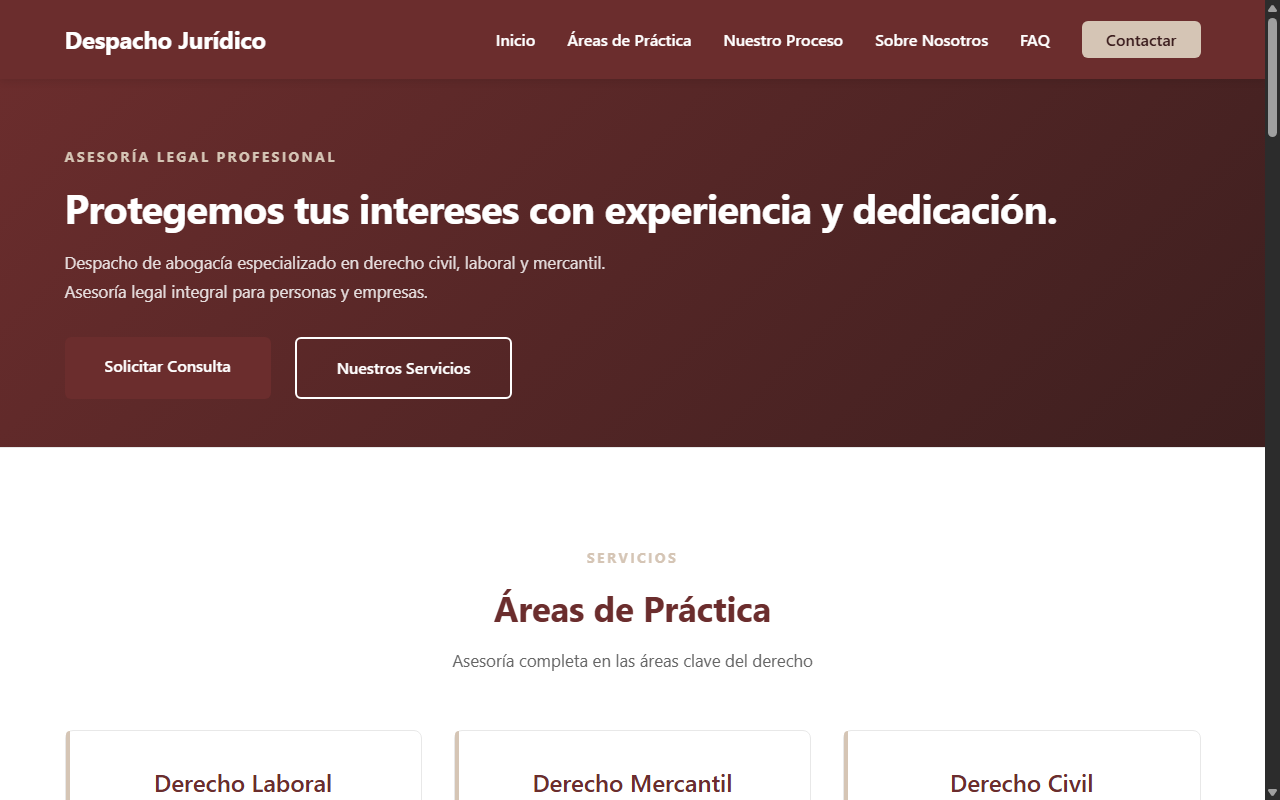
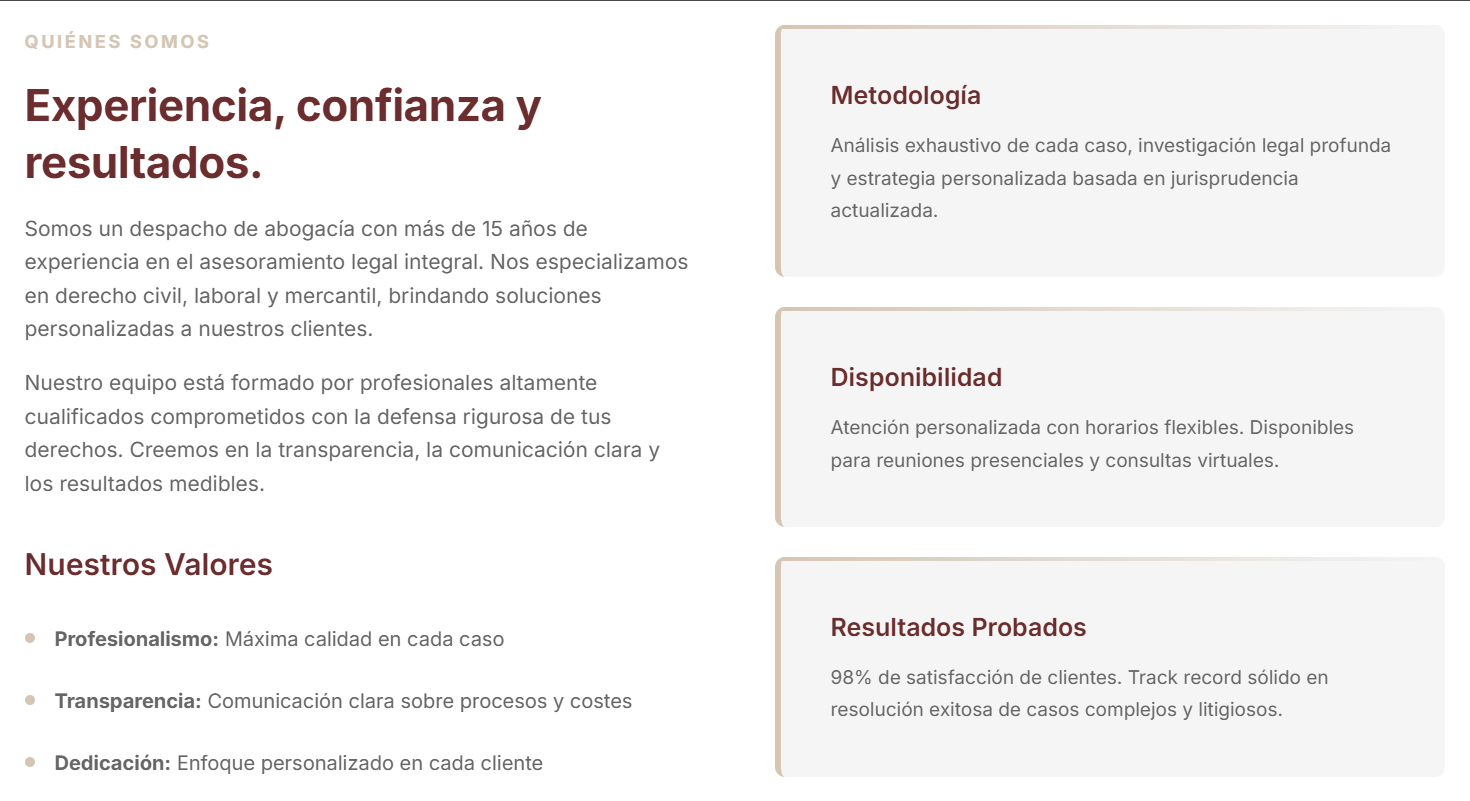
Update law-web with professional screenshots and status panel
- Replace screenshots with desktop versions
- Add Hecho/Pendiente status panel
- Update description with complete details

diff --git a/src/components/Projects.jsx b/src/components/Projects.jsx
@@ -44,11 +44,25 @@ const projects = [
     year: '2026',
     title: 'Despacho Jurídico',
     description:
-      'Sitio web completo para despacho de abogacía: presentación, áreas de práctica (civil, laboral, mercantil), proceso de trabajo, FAQ, formulario de contacto y footer legal. Paleta vino y gris-beige con tipografía moderna. Datos ficticios: el proyecto está listo para enseñar como demo.',
+      'Sitio web completo para despacho de abogacía: presentación, áreas de práctica (civil, laboral, mercantil), nuestro proceso, sobre nosotros, FAQ, formulario de contacto y footer legal. Paleta vino y gris-beige con tipografía moderna (Inter). Datos ficticios: el proyecto está listo para enseñar como demo.',
     main: 'projects/law-web-1.png',
     secondary: 'projects/law-web-2.png',
     secondaryPos: 'br',
     url: 'https://931e1ab6.law-web.pages.dev',
+    status: {
+      done: [
+        'Diseño UI/UX y sistema de diseño coherente',
+        'Maquetación completa (6 secciones)',
+        'Navegación responsive con menú móvil',
+        'Formulario de contacto funcional',
+      ],
+      pending: [
+        'EmailJS configurado (awaiting client keys)',
+        'Calendly integración',
+        'Datos personales reales del despacho',
+        'Aviso legal y política de privacidad',
+      ],
+    },
   },
   {
     id: 'proximamente',
